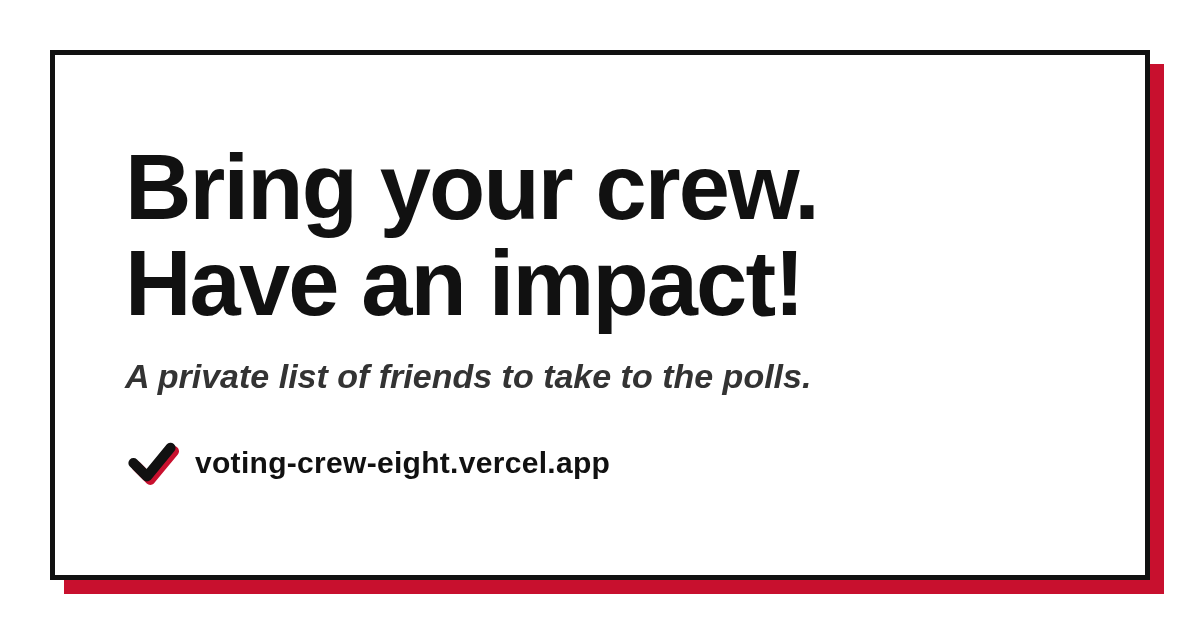
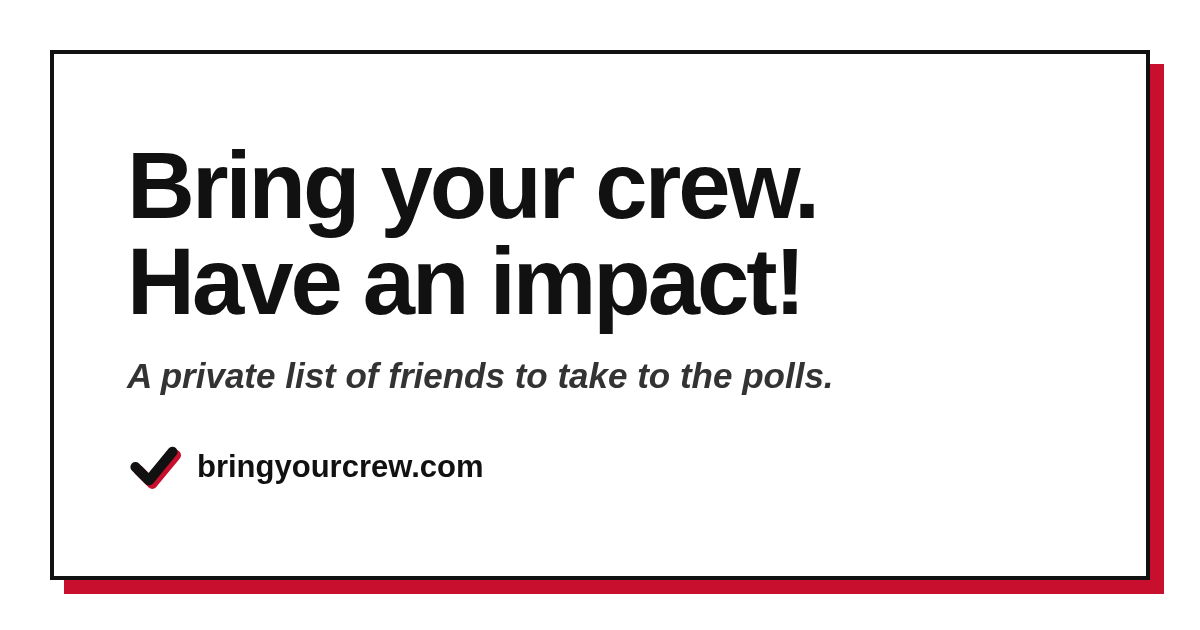
Version 0.13.0 "Domain": move to bringyourcrew.com
New flyer QR code and printed address, share link, link previews and
preview image all point to bringyourcrew.com. The old Vercel address
keeps working.

diff --git a/flyer.html b/flyer.html
@@ -177,12 +177,12 @@
             <svg viewBox="0 0 40 44" aria-hidden="true"><path d="M13 2h14v20h10L20 42 3 22h10z" fill="#c8102e" transform="translate(4 3)"/><path d="M13 2h14v20h10L20 42 3 22h10z" fill="#fff" stroke="#111" stroke-width="2.5" stroke-linejoin="round"/></svg>
             Scan to make your own list!
           </p>
-          <!-- QR code for https://voting-crew-eight.vercel.app/ (error correction H,
+          <!-- QR code for https://www.bringyourcrew.com/ (error correction H,
                4-module quiet zone). Made with the "qrcode" npm package; see CHANGELOG 0.7.0. -->
           <div class="f-qr">
-            <svg xmlns="http://www.w3.org/2000/svg" role="img" aria-label="QR code for https://voting-crew-eight.vercel.app/" viewBox="0 0 45 45" shape-rendering="crispEdges"><path fill="#ffffff" d="M0 0h45v45H0z"/><path stroke="#000000" d="M4 4.5h7m3 0h1m1 0h1m1 0h1m1 0h3m2 0h3m1 0h1m4 0h7M4 5.5h1m5 0h1m1 0h1m2 0h3m6 0h1m1 0h2m1 0h1m2 0h1m1 0h1m5 0h1M4 6.5h1m1 0h3m1 0h1m1 0h1m1 0h1m1 0h1m2 0h1m1 0h2m2 0h2m1 0h4m2 0h1m1 0h3m1 0h1M4 7.5h1m1 0h3m1 0h1m1 0h3m1 0h1m2 0h2m1 0h2m2 0h1m2 0h2m3 0h1m1 0h3m1 0h1M4 8.5h1m1 0h3m1 0h1m1 0h2m1 0h1m1 0h2m3 0h3m3 0h3m1 0h1m1 0h1m1 0h3m1 0h1M4 9.5h1m5 0h1m1 0h4m3 0h1m1 0h1m1 0h1m1 0h1m6 0h1m1 0h1m5 0h1M4 10.5h7m1 0h1m1 0h1m1 0h1m1 0h1m1 0h1m1 0h1m1 0h1m1 0h1m1 0h1m1 0h1m1 0h1m1 0h7M13 11.5h2m6 0h1m2 0h5m1 0h3M6 12.5h1m2 0h4m3 0h2m1 0h1m1 0h2m6 0h2m1 0h2m1 0h5M7 13.5h2m2 0h1m2 0h1m3 0h3m2 0h1m1 0h6m1 0h1m7 0h1M6 14.5h1m3 0h2m3 0h1m1 0h1m5 0h1m8 0h3m3 0h1m1 0h1M4 15.5h4m4 0h1m2 0h2m2 0h3m4 0h3m1 0h3m2 0h3m1 0h1M4 16.5h1m1 0h7m1 0h4m4 0h2m2 0h3m5 0h2m3 0h1M7 17.5h1m3 0h1m5 0h1m1 0h1m6 0h3m1 0h5m3 0h1m1 0h1M5 18.5h3m1 0h3m1 0h4m2 0h1m6 0h2m3 0h1m3 0h4m1 0h1M8 19.5h1m7 0h2m1 0h3m1 0h3m2 0h1m1 0h1m1 0h2m1 0h1m1 0h1M7 20.5h1m1 0h2m1 0h1m1 0h3m3 0h1m1 0h2m3 0h2m1 0h3m1 0h2m4 0h1M8 21.5h2m4 0h1m4 0h3m1 0h1m3 0h1m3 0h2m1 0h1m3 0h1m1 0h1M6 22.5h1m1 0h3m1 0h1m1 0h2m1 0h3m3 0h1m2 0h2m2 0h3m5 0h1m1 0h1M8 23.5h2m3 0h12m1 0h1m3 0h2m2 0h2m1 0h1m1 0h1M10 24.5h2m2 0h1m1 0h1m1 0h2m1 0h3m1 0h2m4 0h2m1 0h1m2 0h1m2 0h1M7 25.5h3m2 0h1m2 0h2m1 0h3m1 0h1m1 0h1m1 0h2m1 0h1m1 0h1m1 0h3m1 0h1m2 0h1M5 26.5h1m2 0h1m1 0h1m1 0h2m3 0h3m1 0h1m1 0h2m2 0h1m3 0h2m2 0h2m3 0h1M7 27.5h1m1 0h1m2 0h6m1 0h3m3 0h1m1 0h1m1 0h1m1 0h1m2 0h2m1 0h1m2 0h1M4 28.5h1m2 0h5m3 0h4m1 0h1m1 0h1m2 0h5m5 0h1m1 0h1M7 29.5h1m8 0h1m2 0h1m3 0h1m1 0h2m1 0h1m11 0h1M4 30.5h4m2 0h5m1 0h4m2 0h2m2 0h1m1 0h1m2 0h1m1 0h6m1 0h1M9 31.5h1m3 0h3m4 0h1m1 0h1m2 0h4m4 0h2m2 0h1m1 0h1M4 32.5h4m2 0h1m1 0h2m1 0h4m3 0h1m3 0h1m1 0h1m2 0h6m3 0h1M12 33.5h1m1 0h5m1 0h2m3 0h3m1 0h1m2 0h1m3 0h2m1 0h2M4 34.5h7m1 0h1m1 0h2m1 0h2m1 0h1m3 0h1m2 0h3m2 0h1m1 0h1m1 0h3m1 0h1M4 35.5h1m5 0h1m1 0h3m1 0h1m2 0h1m2 0h1m2 0h1m2 0h1m1 0h3m3 0h2m1 0h2M4 36.5h1m1 0h3m1 0h1m3 0h1m1 0h1m1 0h4m2 0h1m6 0h6M4 37.5h1m1 0h3m1 0h1m2 0h5m1 0h1m4 0h1m1 0h1m5 0h1m2 0h4m1 0h1M4 38.5h1m1 0h3m1 0h1m1 0h1m1 0h2m2 0h1m1 0h1m2 0h1m3 0h1m1 0h1m2 0h1m3 0h2m1 0h2M4 39.5h1m5 0h1m7 0h1m6 0h1m4 0h3m4 0h1M4 40.5h7m3 0h4m2 0h1m1 0h3m1 0h3m3 0h1m2 0h1m1 0h1m2 0h1"/></svg>
+            <svg xmlns="http://www.w3.org/2000/svg" role="img" aria-label="QR code for https://www.bringyourcrew.com/" viewBox="0 0 41 41" shape-rendering="crispEdges"><path fill="#ffffff" d="M0 0h41v41H0z"/><path stroke="#000000" d="M4 4.5h7m4 0h3m1 0h1m2 0h3m1 0h1m1 0h1m1 0h7M4 5.5h1m5 0h1m2 0h1m3 0h2m2 0h1m1 0h2m3 0h1m1 0h1m5 0h1M4 6.5h1m1 0h3m1 0h1m1 0h3m2 0h1m1 0h2m1 0h4m1 0h2m1 0h1m1 0h3m1 0h1M4 7.5h1m1 0h3m1 0h1m1 0h1m1 0h1m1 0h1m1 0h1m3 0h1m1 0h2m1 0h1m2 0h1m1 0h3m1 0h1M4 8.5h1m1 0h3m1 0h1m4 0h2m2 0h4m2 0h1m1 0h2m1 0h1m1 0h3m1 0h1M4 9.5h1m5 0h1m4 0h1m1 0h2m2 0h3m3 0h1m2 0h1m5 0h1M4 10.5h7m1 0h1m1 0h1m1 0h1m1 0h1m1 0h1m1 0h1m1 0h1m1 0h1m1 0h1m1 0h7M13 11.5h2m2 0h1m1 0h4m3 0h1m1 0h1M7 12.5h2m1 0h2m2 0h1m2 0h2m2 0h2m1 0h1m3 0h1m4 0h2M4 13.5h3m2 0h1m2 0h2m1 0h4m6 0h1m1 0h1m1 0h1m1 0h2m2 0h1M6 14.5h1m2 0h3m1 0h1m5 0h2m1 0h2m2 0h4m1 0h1m2 0h3M4 15.5h1m4 0h1m2 0h2m1 0h5m1 0h2m2 0h2m1 0h1m1 0h3m1 0h3M5 16.5h1m1 0h2m1 0h2m1 0h2m1 0h4m1 0h1m1 0h1m1 0h1m1 0h2m1 0h2m1 0h1m2 0h1M5 17.5h2m1 0h1m2 0h3m1 0h2m2 0h5m1 0h1m1 0h1m1 0h1m4 0h2M4 18.5h3m2 0h2m1 0h3m2 0h2m4 0h2m3 0h2m2 0h2M6 19.5h1m2 0h1m1 0h1m1 0h1m1 0h1m7 0h2m2 0h2m2 0h1m1 0h2M5 20.5h4m1 0h2m2 0h10m3 0h1m1 0h2m1 0h2m1 0h1M4 21.5h1m2 0h2m7 0h1m3 0h1m1 0h1m1 0h3m1 0h1m1 0h4m2 0h1M5 22.5h1m4 0h1m5 0h1m1 0h1m1 0h1m1 0h3m2 0h1m4 0h3m1 0h1M5 23.5h1m2 0h2m1 0h1m2 0h3m7 0h1m2 0h2m2 0h1m1 0h3M4 24.5h2m2 0h1m1 0h1m1 0h1m1 0h3m1 0h1m1 0h5m3 0h2m1 0h1m1 0h1m2 0h1M4 25.5h2m1 0h1m3 0h2m4 0h2m1 0h2m2 0h1m1 0h1m3 0h1m1 0h4M4 26.5h1m3 0h1m1 0h5m1 0h2m4 0h3m1 0h1m1 0h1m1 0h1m1 0h1m2 0h2M4 27.5h1m2 0h3m2 0h1m1 0h1m1 0h2m1 0h3m9 0h2m1 0h3M4 28.5h3m1 0h1m1 0h1m3 0h4m1 0h2m2 0h1m2 0h1m1 0h5m3 0h1M12 29.5h2m2 0h1m1 0h4m5 0h2m3 0h2M4 30.5h7m1 0h6m1 0h1m2 0h7m1 0h1m1 0h2M4 31.5h1m5 0h1m3 0h1m1 0h1m2 0h1m2 0h2m3 0h2m3 0h4M4 32.5h1m1 0h3m1 0h1m1 0h2m2 0h1m1 0h2m1 0h1m3 0h1m1 0h6m2 0h1M4 33.5h1m1 0h3m1 0h1m1 0h1m1 0h1m2 0h1m1 0h2m2 0h1m1 0h1m3 0h1m1 0h1m3 0h1M4 34.5h1m1 0h3m1 0h1m5 0h1m8 0h4m3 0h1m2 0h2M4 35.5h1m5 0h1m2 0h2m2 0h3m1 0h1m5 0h1m1 0h2m2 0h4M4 36.5h7m3 0h1m1 0h1m4 0h1m3 0h6m1 0h1"/></svg>
           </div>
-          <p class="f-url">https://voting-crew-eight.vercel.app</p>
+          <p class="f-url">bringyourcrew.com</p>
           <p class="f-privacy f-privacy-full">Names stay on your phone. No sign-up.</p>
         </div>
       </section>

diff --git a/index.html b/index.html
@@ -10,14 +10,14 @@
   <meta property="og:site_name" content="My Voting Crew">
   <meta property="og:title" content="Bring your crew. Have an impact!">
   <meta property="og:description" content="Who will you bring to the polls? A private list of the friends you'll take to vote. Your list stays on your device.">
-  <meta property="og:url" content="https://voting-crew-eight.vercel.app/">
-  <meta property="og:image" content="https://voting-crew-eight.vercel.app/og.png">
+  <meta property="og:url" content="https://www.bringyourcrew.com/">
+  <meta property="og:image" content="https://www.bringyourcrew.com/og.png">
   <meta property="og:image:width" content="1200">
   <meta property="og:image:height" content="630">
   <meta name="twitter:card" content="summary_large_image">
   <meta name="twitter:title" content="Bring your crew. Have an impact!">
   <meta name="twitter:description" content="Who will you bring to the polls? A private list of the friends you'll take to vote. Your list stays on your device.">
-  <meta name="twitter:image" content="https://voting-crew-eight.vercel.app/og.png">
+  <meta name="twitter:image" content="https://www.bringyourcrew.com/og.png">
   <link rel="icon" href="/favicon.svg" type="image/svg+xml">
   <link rel="apple-touch-icon" href="/apple-touch-icon.png">
   <meta http-equiv="Content-Security-Policy" content="default-src 'none'; style-src 'unsafe-inline'; script-src 'unsafe-inline'; connect-src 'self'; img-src 'self' data:; base-uri 'none'; form-action 'none'">
@@ -669,7 +669,7 @@
     (function () {
       'use strict';
       // ---- Page settings ----
-      var VERSION = '0.12.2';
+      var VERSION = '0.13.0';
       var SHOW_ODDS = true;      // false removes the odds tracker
       var START = 5;             // names shown at first
       var EXPANDED = 10;         // names after "Expand your list"
@@ -819,7 +819,8 @@
       // "Print your list!" offers two sheets: the visitor's own list, or two
       // blank copies to hand out. The browser's own Print command (Ctrl+P,
       // the File menu) prints the visitor's list.
-      var SITE = 'https://voting-crew-eight.vercel.app';
+      var SITE = 'https://www.bringyourcrew.com';   // shared link: the full address
+      var SITE_PRINT = 'bringyourcrew.com';          // printed address: short form
       var ELECTION_DAY = 'Tuesday, November 3, 2026';
       var POLL_HOURS = 'Ohio polls are open 6:30 a.m. to 7:30 p.m.';
       var MINE_LINES = 16;       // lines on "my list": fills one page, at least 10
@@ -864,7 +865,7 @@
         }
         copy.appendChild(list);
         var url = sheetEl('p', 's-url', 'Make your own list: ');
-        url.appendChild(sheetEl('b', '', SITE));
+        url.appendChild(sheetEl('b', '', SITE_PRINT));
         copy.appendChild(url);
         return copy;
       }

diff --git a/CHANGELOG.md b/CHANGELOG.md
@@ -2,6 +2,14 @@
 
 My Voting Crew follows [Semantic Versioning](https://semver.org): MAJOR.MINOR.PATCH. While the major number is 0, the app is in alpha: features are still arriving and saved lists may be reset. Each new design or feature set is a minor version, and bug fixes are patches. Each version is tagged on its commit.
 
+## 0.13.0 "Domain" (2026-10-28)
+
+- The site has its own address: https://bringyourcrew.com (Mainiak's domain, bought on Namecheap). It forwards to https://www.bringyourcrew.com. The old address, https://voting-crew-eight.vercel.app, keeps working, so flyers already printed still scan.
+- The flyer's QR code now encodes https://www.bringyourcrew.com/ (same settings: error correction level H, four-module quiet zone), and the flyer prints the short address "bringyourcrew.com".
+- The list sheet and blank copies print "bringyourcrew.com" at the bottom. The Share button shares https://www.bringyourcrew.com.
+- Link previews point to the new address, and the preview picture, og.png, is redrawn to show bringyourcrew.com.
+- votingcrew.com, also Mainiak's, loads the same site but is not printed or shared anywhere.
+
 ## 0.12.2 (2026-10-28)
 
 - On desktop, the "More!" hint now lines up with the middle of the page box instead of the middle of the window, so it no longer floats below the box on tall windows.

diff --git a/README.md b/README.md
@@ -18,4 +18,4 @@ An Election Day checklist: list the friends you will take to the polls (five lin
 
 ## Hosting
 
-Hosted on Vercel, on Mainiak's own account: https://voting-crew-eight.vercel.app. The project is **not Git-linked** — pushing to the repo does not deploy anything. Deploys are run from the command line via the Vercel REST API, from a tagged commit. The older address, https://voting-crew.vercel.app, still serves an earlier build from the Kangaroof team and has not yet been cleaned up.
+Hosted on Vercel, on Mainiak's own account, at https://bringyourcrew.com (forwards to www; DNS at Namecheap). The Vercel address https://voting-crew-eight.vercel.app still works, so older flyers' QR codes keep scanning. votingcrew.com is a spare alias. The project is **not Git-linked** — pushing to the repo does not deploy anything. Deploys are run from the command line via the Vercel REST API, from a tagged commit. The older address, https://voting-crew.vercel.app, still serves an earlier build from the Kangaroof team and has not yet been cleaned up.
